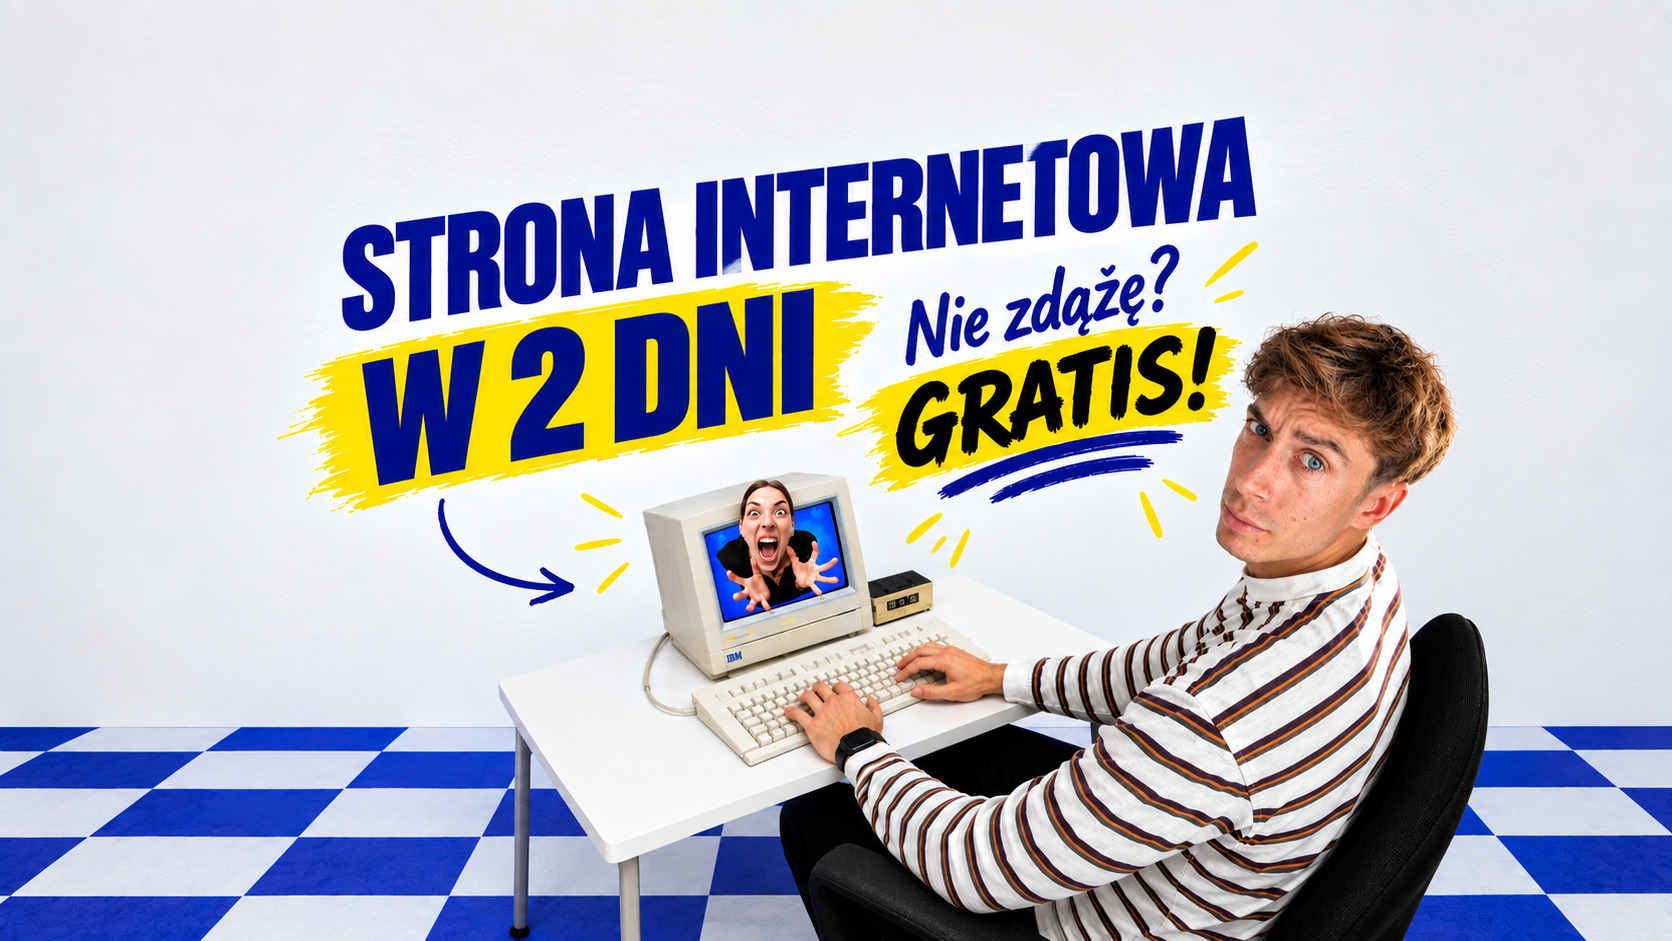
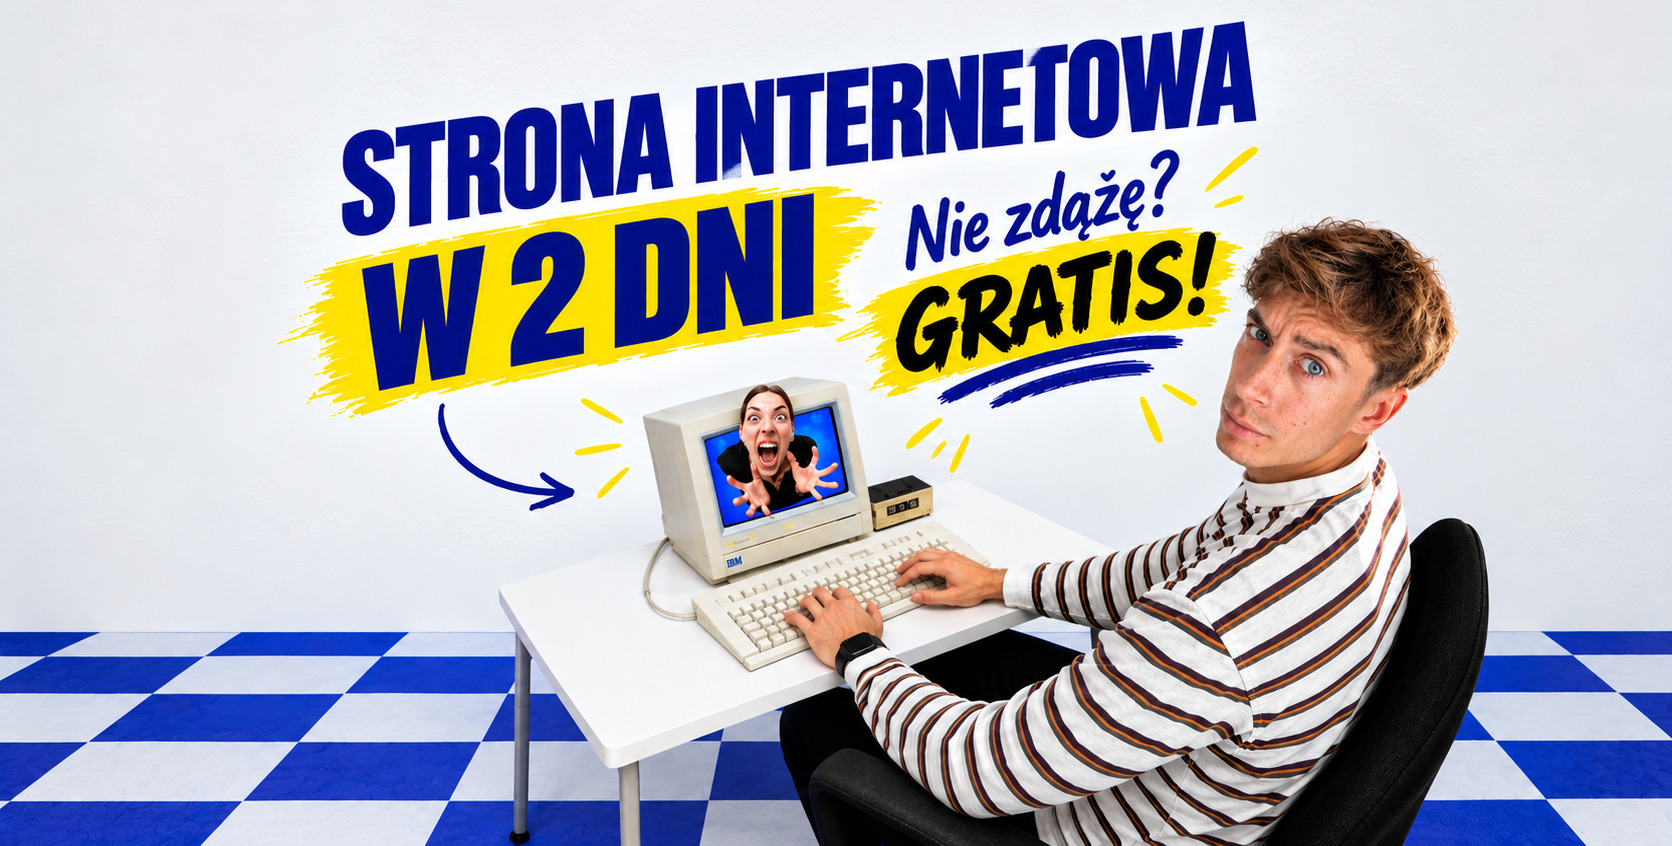
Hero: usuń eyebrow, przytnij górny margines grafiki (1672x846) — ekran główny mieści się w viewport

diff --git a/index.html b/index.html
@@ -527,8 +527,7 @@
   <!-- ===== HERO v2 (grafika + copy) ===== -->
   <section class="hero2">
     <div class="hero-stage">
-    <img class="hero-bg" src="shots/hero.jpg" width="1672" height="941" alt="Strona internetowa w 2 dni — Nie zdążę? Gratis! — Paweł Stelmakh" fetchpriority="high">
-    <span class="h-eyebrow">Nowoczesna strona internetowa</span>
+    <img class="hero-bg" src="shots/hero.jpg" width="1672" height="846" alt="Strona internetowa w 2 dni — Nie zdążę? Gratis! — Paweł Stelmakh" fetchpriority="high">
     <div class="hero-copy">
       <p class="h-sub">Szybko. Profesjonalnie. Bez stresu. Nowoczesna strona, która działa i przyciąga klientów.</p>
       <div class="h-actions">
